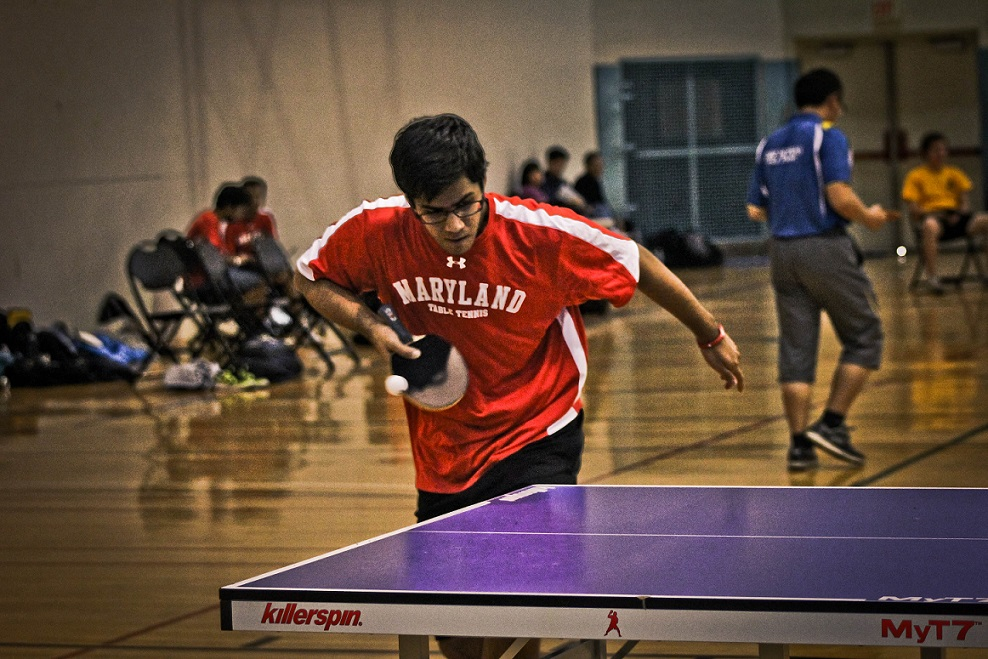
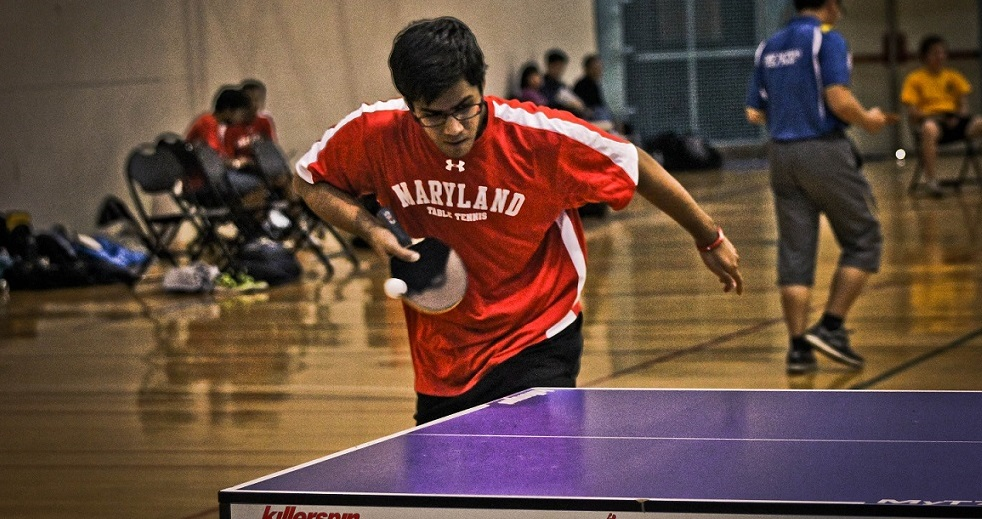
image crop and use image swaps

diff --git a/index.html b/index.html
@@ -41,7 +41,7 @@
       <h3>
         <a name="Welcome" class="anchor" href="#site-welcome"><span class="octicon octicon-link"></span></a>Welcome to the UMD Table Tennis Club Homepage</h3>
 
-        <img class = "main" src="https://raw.githubusercontent.com/vikashsahu/umd-pong/2caa64b4873fb99e51e0165bab6cf2d2ccd2e286/images/natsteam3.jpg">
+        <img class = "main" src="https://raw.githubusercontent.com/vikashsahu/umd-pong/gh-pages/images/main_image.jpg">
 <!--
 <pre><code>$ cd your_repo_root/repo_name
 $ git fetch origin

diff --git a/about.html b/about.html
@@ -53,6 +53,8 @@
         </tr>
       </table>
 
+      <img class = "main" src="https://raw.githubusercontent.com/vikashsahu/umd-pong/2caa64b4873fb99e51e0165bab6cf2d2ccd2e286/images/natsteam3.jpg">
+
       <br>
       <h3>Useful Links</h3>
       <hr>
